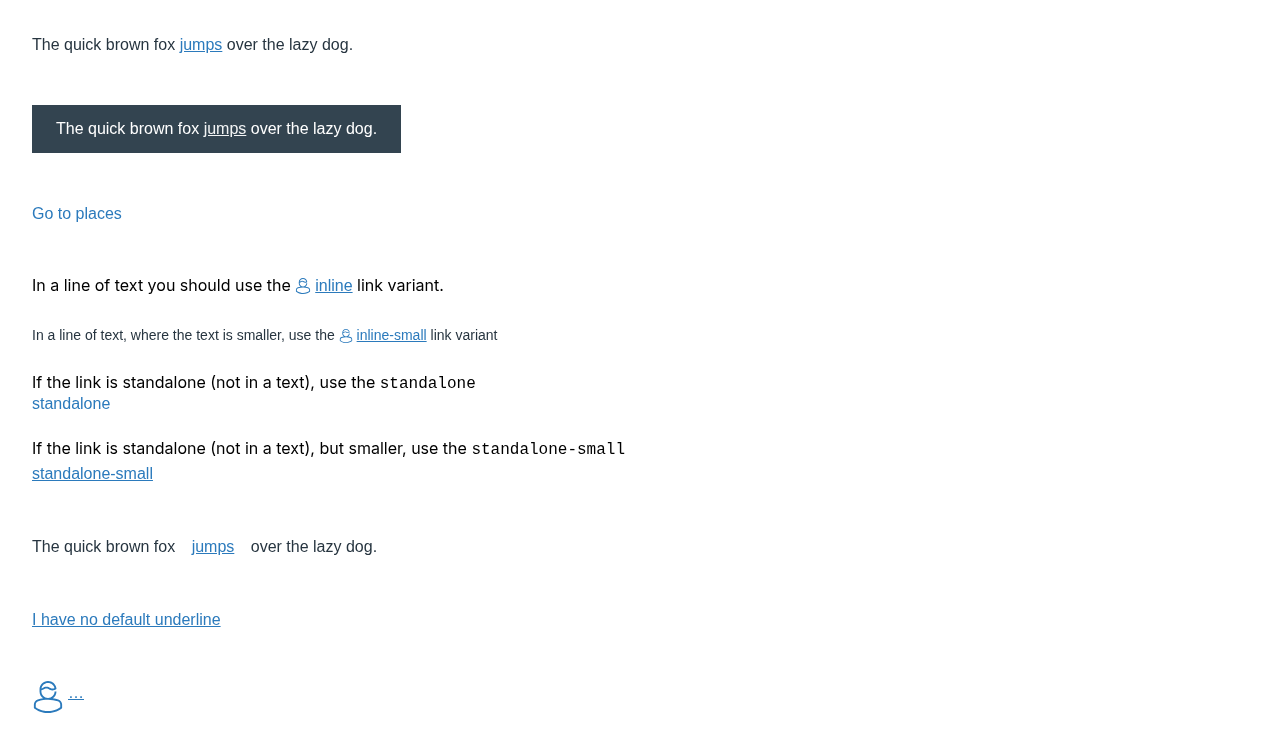
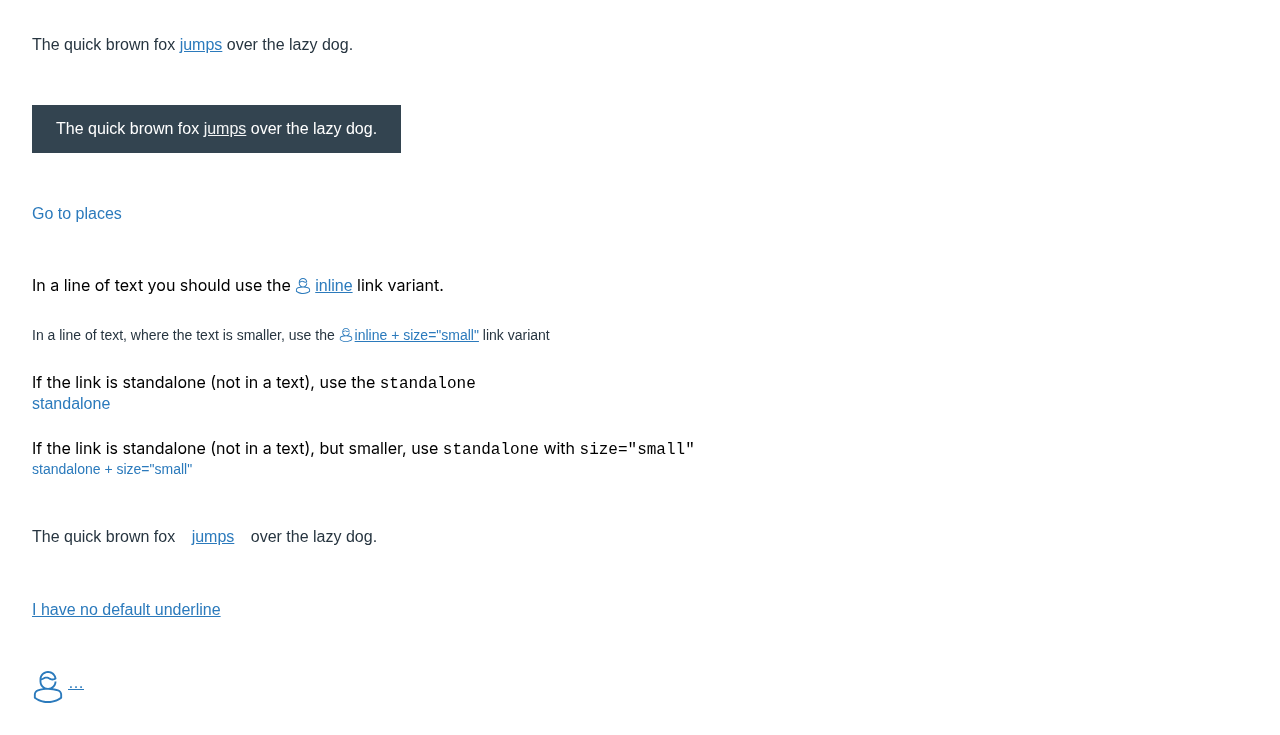
visual-regression: PR #2549 (2ecb8ceca1d2fec616f2bbee4d9f3294ff935770) 2ecb8ceca1d2fec616f2bbee4d9f3294ff935770

diff --git a/visual-regression/pr-2549/index.html b/visual-regression/pr-2549/index.html
@@ -148,7 +148,7 @@
       <div class="grid"><figure><figcaption>Baseline</figcaption><img loading="lazy" src="baseline/img.png" data-name="img.png" data-mode="baseline" class="thumb" /></figure><figure><figcaption>Actual</figcaption><img loading="lazy" src="actual/img.png" data-name="img.png" data-mode="actual" class="thumb" /></figure><figure><figcaption>Diff</figcaption></figure></div>
     </section>
     <section class="row" data-status="changed" data-name="link.png" data-has-both="true">
-      <header><h2>link.png</h2><span class="pill fail">changed</span><div class="meta">4468 pixels differ · size mismatch</div><a class="source-link" href="https://github.com/instructure/instructure-ui/blob/INSTUI-5025-remove-deprecated-items-in-v-2/regression-test/src/app/link//page.tsx" target="_blank" rel="noopener">link//page.tsx</a></header>
+      <header><h2>link.png</h2><span class="pill fail">changed</span><div class="meta">1691 pixels differ</div><a class="source-link" href="https://github.com/instructure/instructure-ui/blob/INSTUI-5025-remove-deprecated-items-in-v-2/regression-test/src/app/link//page.tsx" target="_blank" rel="noopener">link//page.tsx</a></header>
       <div class="grid"><figure><figcaption>Baseline</figcaption><img loading="lazy" src="baseline/link.png" data-name="link.png" data-mode="baseline" class="thumb" /></figure><figure><figcaption>Actual</figcaption><img loading="lazy" src="actual/link.png" data-name="link.png" data-mode="actual" class="thumb" /></figure><figure><figcaption>Diff</figcaption><img loading="lazy" src="diff/link.png" data-name="link.png" data-mode="diff" class="thumb" /></figure></div>
     </section>
     <section class="row" data-status="unchanged" data-name="menu.png" data-has-both="true">